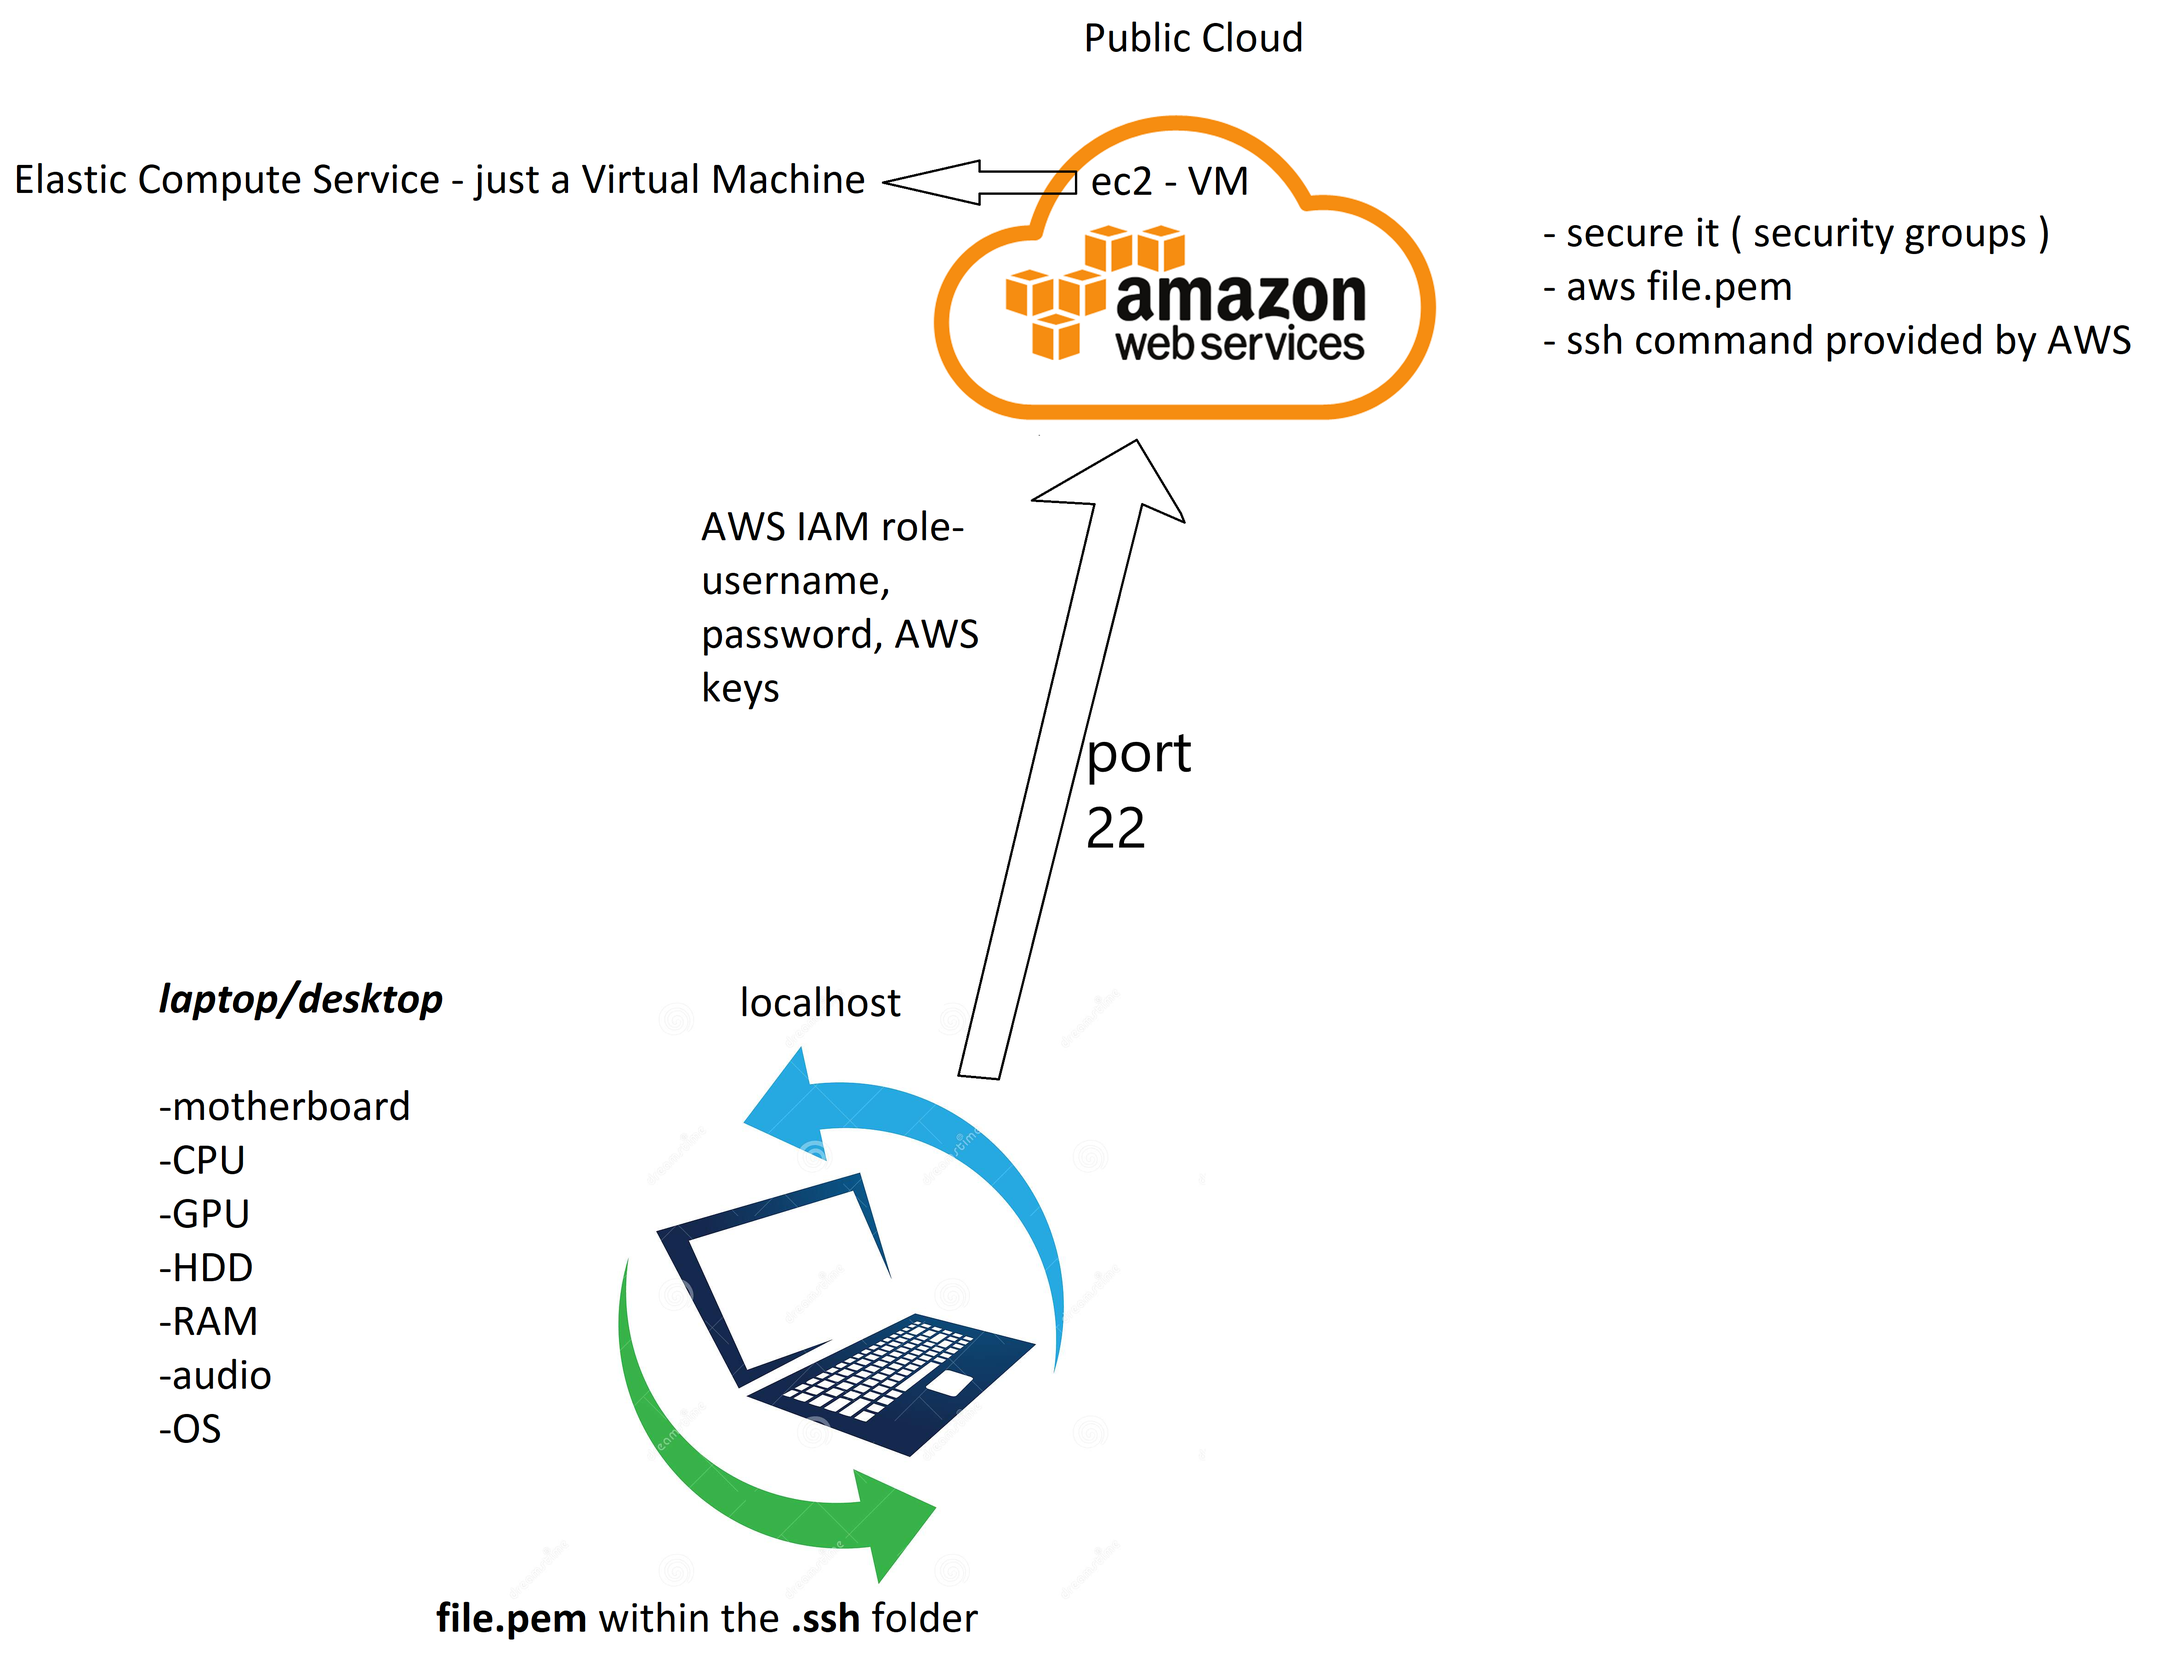
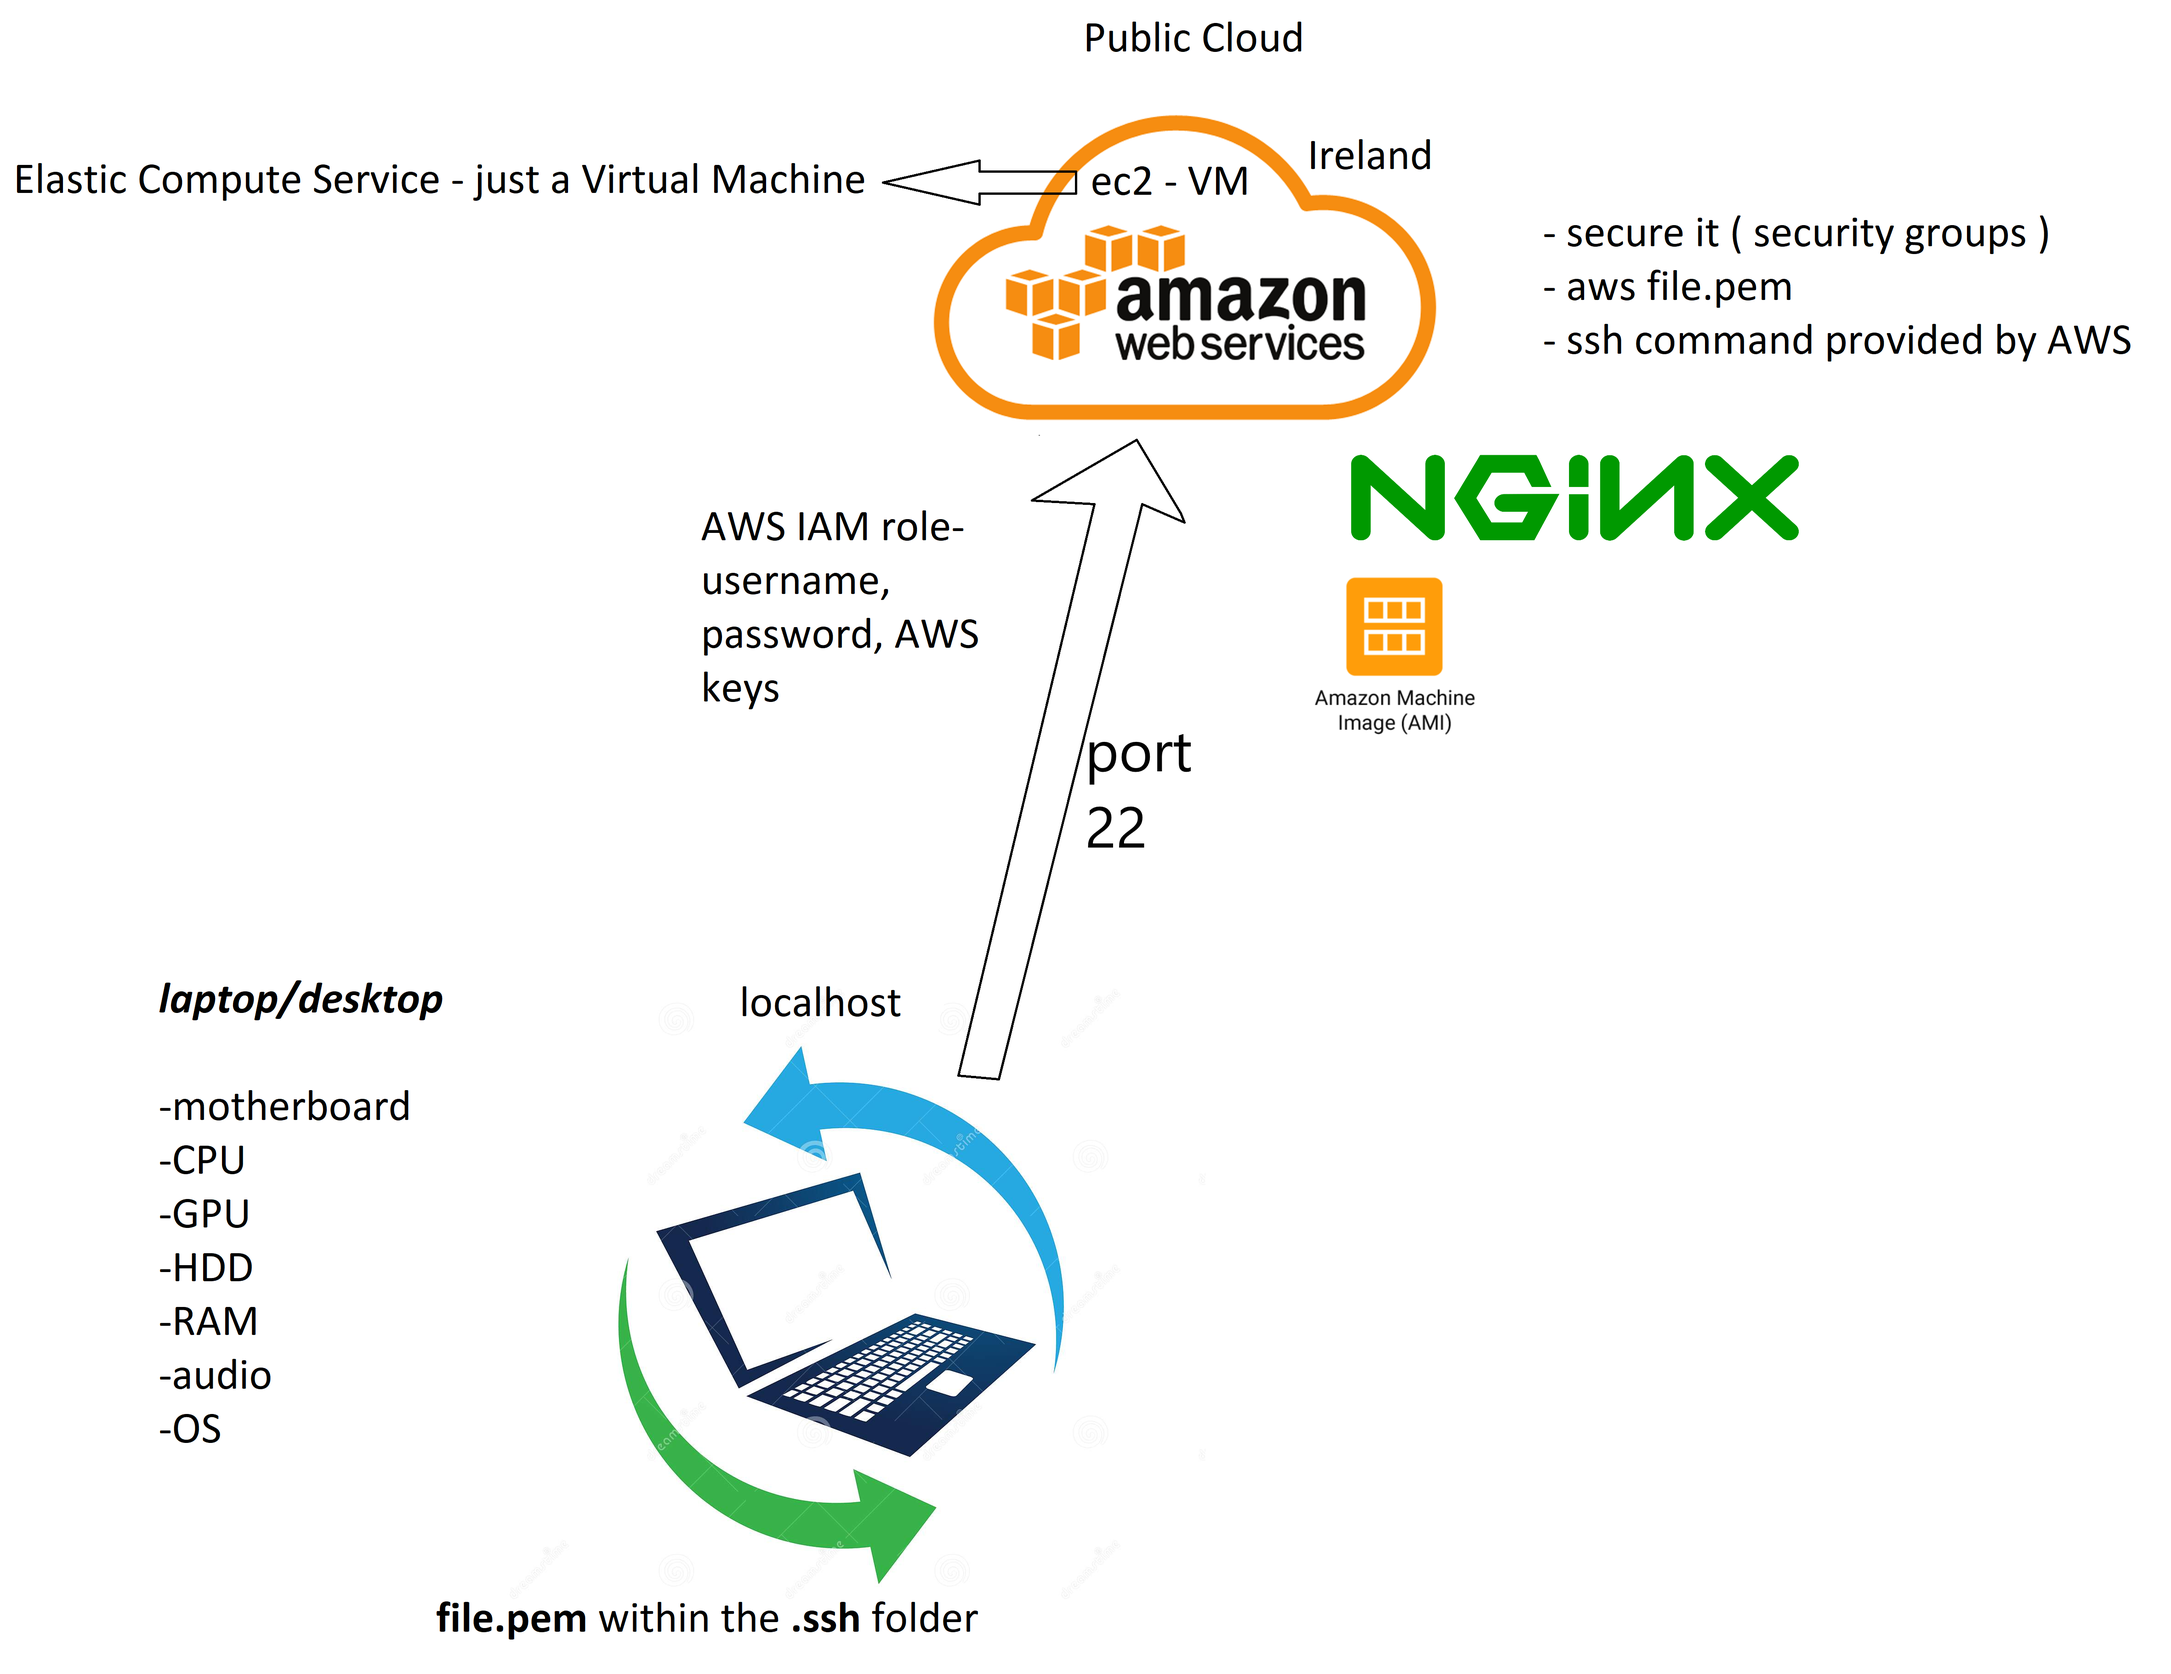
instructions to start an instance

Changed region(s): [[0.6224, 0.2481, 0.8402, 0.4341], [0.6224, 0.093, 0.6535, 0.124]]

diff --git a/README.md b/README.md
@@ -51,13 +51,19 @@ Role of an SRE
 - AWS doesn't, so we need to specify the size we want it to have
 - need credentials (username, password, AWS keys) to have access
 - check diagram for more:
-
 ![Getting Started](day2diagram.png)
-### How to launch an instance
+## How to launch an instance
 - add file.pem into the .ssh folder (c/users/ivan/.ssh) if it doesn't exist make one
 - go to AWS website using the secret link, login using secret details
 - leave most things default
-- add the groups (defauls/ eu-west-1a)
+- add the groups (default network for now/ group is eu-west-1a)
 - add security groups (SSH for your own machine, others can be http before deployment, https after deployment)
+  - you already have a security group so could just reuse it
 - then change permitions of the file (command will be generated by AWS)
 - then connect using the link provided (most of this is explained on the AWS page you will open with the link)
+  - if not type in "chmod 400 (file.pem)"
+  - then type "ssh -i (os name (e.g. ubuntu))@(Public IPv4 DNS address) ( seems to end with compute.amazonaws.com )
+- run update, upgrade and install nginx:
+  - sudo apt-get update -y
+  - sudo apt-get upgrade -y
+  - sudo apt-get install nginx -y
